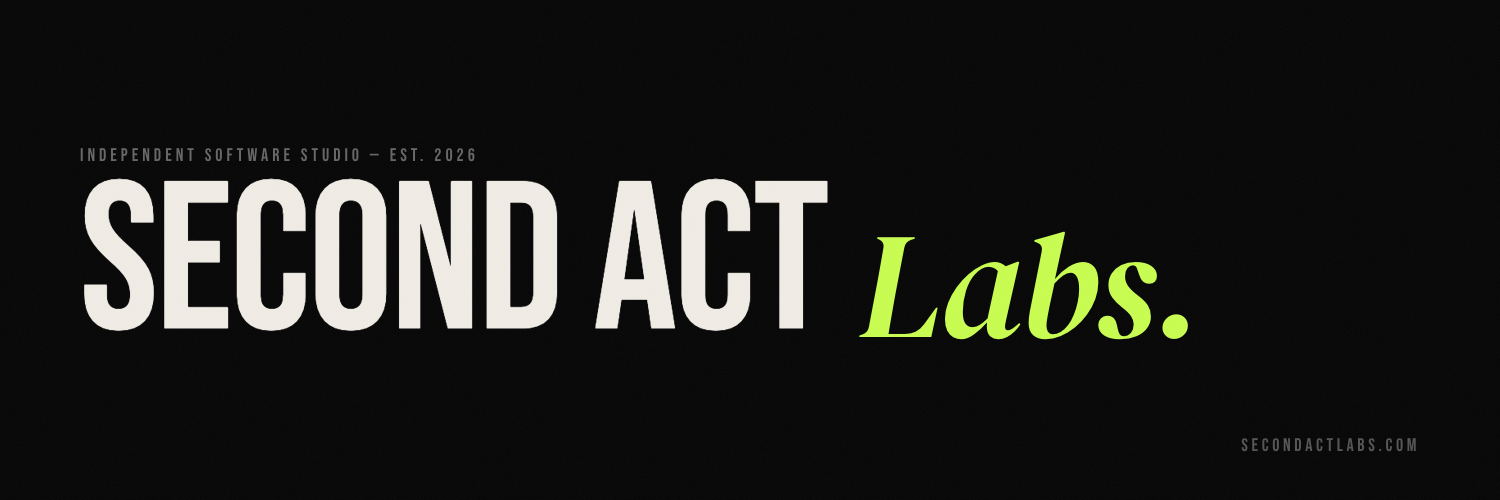
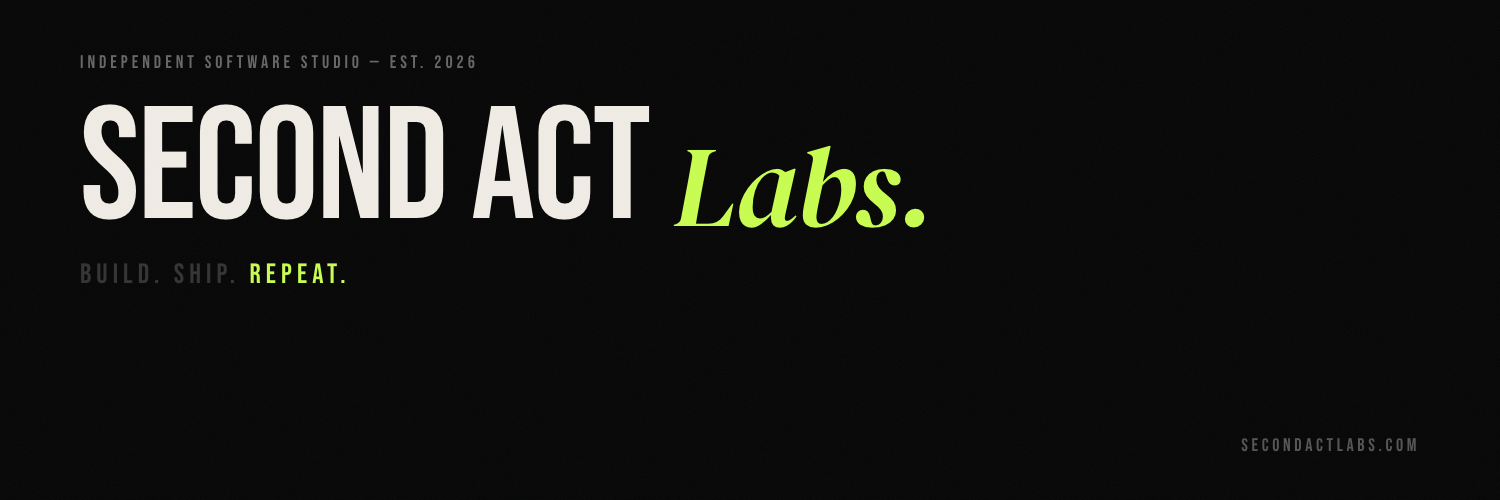
Fix ClawSentinel copy

Changed region(s): [[0.0307, 0.21, 0.7973, 0.69], [0.0613, 0.09, 0.3067, 0.15]]

diff --git a/banner.html b/banner.html
@@ -38,11 +38,11 @@
     letter-spacing: 0.22em;
     text-transform: uppercase;
     color: #666;
-    margin-bottom: 10px;
+    margin-bottom: 28px;
   }
 
   .headline {
-    font-size: 185px;
+    font-size: 160px;
     line-height: 0.85;
     letter-spacing: -0.01em;
     color: #f0ece4;
@@ -66,12 +66,25 @@
     text-transform: uppercase;
     color: #555;
   }
+
+  .subline {
+    margin-top: 20px;
+    font-size: 28px;
+    letter-spacing: 0.18em;
+    text-transform: uppercase;
+    color: #333;
+  }
+
+  .subline span {
+    color: #b9ff00;
+  }
 </style>
 </head>
 <body>
 <div class="wrap">
   <div class="eyebrow">Independent Software Studio — Est. 2026</div>
   <div class="headline">Second Act <span class="green">Labs.</span></div>
+  <div class="subline">Build. Ship. <span>Repeat.</span></div>
   <div class="tagline">secondactlabs.com</div>
 </div>
 </body>

diff --git a/index.html b/index.html
@@ -374,7 +374,7 @@
     <span class="pnum">02</span>
     <div class="pbody">
       <div class="pname">ClawSentinel</div>
-      <div class="pdesc">Gateway watchdog for OpenClaw. Green dot means running. Red means it already fixed itself.</div>
+      <div class="pdesc">Gateway watchdog for OpenClaw. Green dot means running. Red means it's on it.</div>
     </div>
     <span class="parrow">→</span>
   </a>
